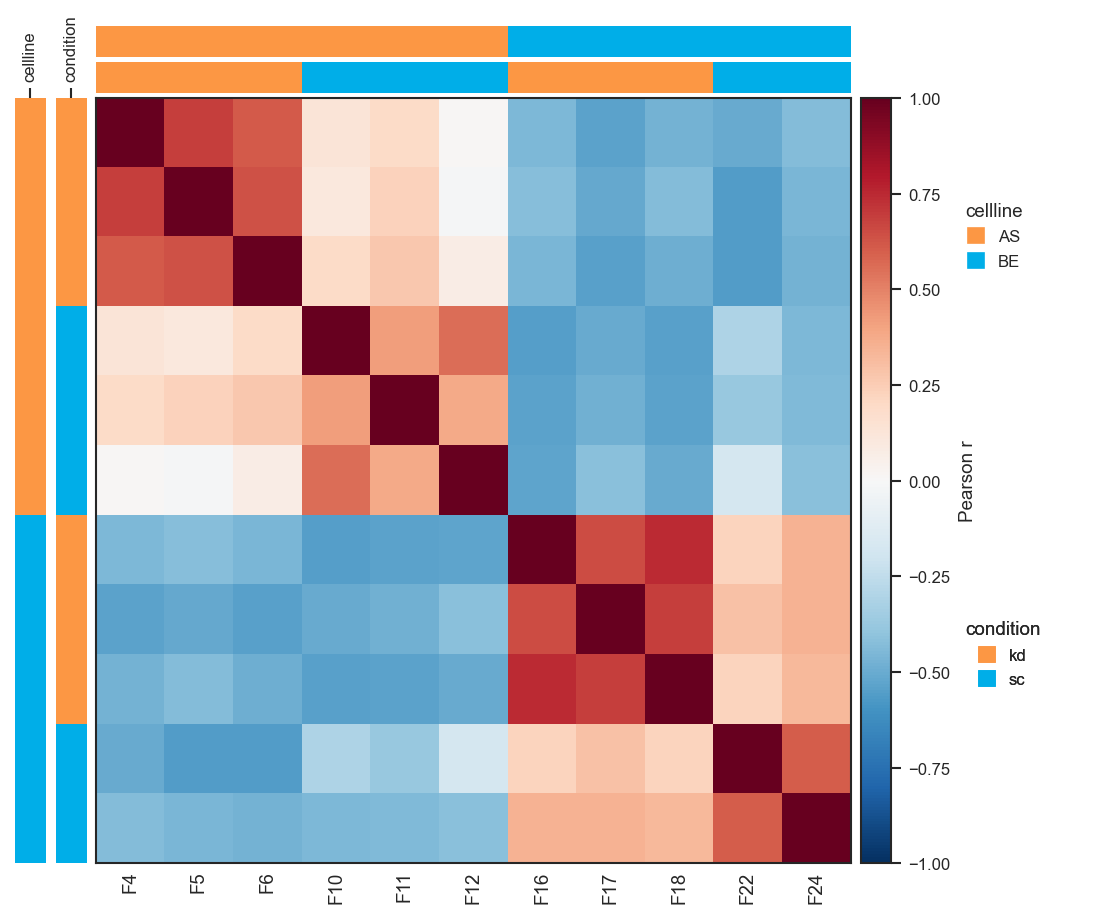
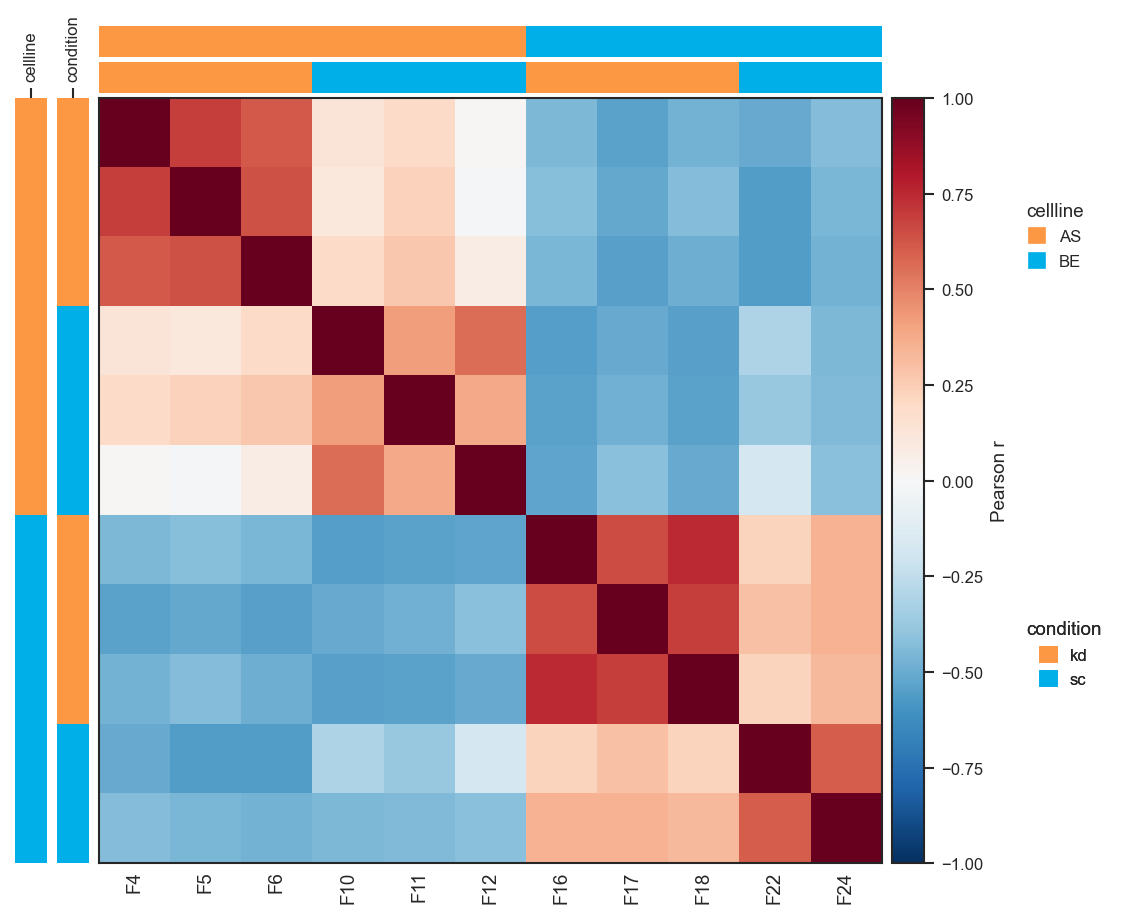
fix(plotting): fix pairwise correlation legend overlap and shift_legend

diff --git a/src/scpviz/plotting/clustering.py b/src/scpviz/plotting/clustering.py
@@ -72,7 +72,7 @@ def plot_pairwise_correlation(
     force: bool = False,
     subset_mask: np.ndarray | pd.Series | list | None = None,
     show_annotation_legend: bool = True,
-    legend_anchor_x: float = 0.3,
+    legend_anchor_x: float | None = None,
     show_ticklabels: bool | None = None,
     ticklabels_auto_max_samples: int = 20,
 ) -> "tuple[Figure, plt.Axes]":
@@ -135,9 +135,10 @@ def plot_pairwise_correlation(
             names also appear on the left vertical bar axes; top bars stay unlabeled).
         legend_anchor_x: Horizontal anchor for annotation legends inside the legend
             column, in axes coordinates (``0`` = left edge of that column, ``1`` = right).
-            Larger values shift legends to the **right**, away from the colorbar, which
-            helps if they overlap the colorbar. Typical values to try: about ``0.15`` to
-            ``0.45`` (default ``0.3``). Ignored when ``show_annotation_legend`` is False.
+            Larger values shift legends to the **right**. ``None`` (default) auto-sizes
+            the column from the legend text and clears the colorbar labels. Ignored when
+            ``show_annotation_legend`` is False. To move legends relative to the heatmap
+            afterwards, use :func:`shift_legend` on the returned axis.
         show_ticklabels: When ``show_samples=True``, controls sample names on the
             **x-axis** only (y-axis stays unlabeled to avoid clashing with annotation
             bars). ``None`` (default) shows ticks if ``n_samples <= ticklabels_auto_max_samples``
@@ -420,12 +421,22 @@ def plot_pairwise_correlation(
     else:
         _show_ticks = True
 
+    # Legend column width (inches) from the longest label/title, plus clearance
+    # for the colorbar tick labels + label so legends never overlap the colorbar.
+    legend_col_in = 0.0
+    if show_annotation_legend:
+        n_chars = max(
+            max(len(c) for c in classes_list),
+            max(len(v) for c in classes_list for v in adata.obs[c].astype(str).unique()),
+        )
+        cbar_pad_in = 0.8
+        legend_col_in = cbar_pad_in + 0.4 + n_chars * text_size * 0.6 / 72
+
     if figsize is None:
         side = max(5.0, n_groups * 0.55)
         ann_width = n_ann * 0.3
         cbar_width = 0.5
-        legend_width = 1.5 if show_annotation_legend else 0.0
-        fig_w = side + ann_width * 2 + cbar_width + legend_width
+        fig_w = side + ann_width * 2 + cbar_width + legend_col_in
         fig_h = side + ann_width * 2
         figsize = (fig_w, fig_h)
         print(
@@ -436,7 +447,8 @@ def plot_pairwise_correlation(
     fig = plt.figure(figsize=figsize)
     height_ratios = [0.04] * n_ann + [1.0]
     if show_annotation_legend:
-        legend_col_ratio = 0.25
+        heatmap_in = max(figsize[0] - legend_col_in - 0.4, 1.0)
+        legend_col_ratio = legend_col_in / heatmap_in
         width_ratios = [0.04] * n_ann + [1.0, 0.04, legend_col_ratio]
         ncols_gs = n_ann + 3
     else:
@@ -617,6 +629,7 @@ def plot_pairwise_correlation(
 
     if show_annotation_legend and ax_leg_col is not None:
         n_leg = len(classes_list)
+        anchor_x = legend_anchor_x if legend_anchor_x is not None else cbar_pad_in / legend_col_in
         for i, col in enumerate(classes_list):
             handles = [
                 mpatches.Patch(color=ann_color_dicts[i][v], label=v)
@@ -627,12 +640,14 @@ def plot_pairwise_correlation(
                 handles=handles,
                 title=col,
                 loc="center left",
-                bbox_to_anchor=(legend_anchor_x, y_frac),
+                bbox_to_anchor=(anchor_x, y_frac),
                 bbox_transform=ax_leg_col.transAxes,
                 borderaxespad=0.0,
                 fontsize=text_size - 1,
                 title_fontsize=text_size,
                 frameon=False,
+                handlelength=1.0,
+                handleheight=1.0,
             )
             ax_leg_col.add_artist(leg)
 

diff --git a/src/scpviz/plotting/style.py b/src/scpviz/plotting/style.py
@@ -215,11 +215,18 @@ def shift_legend(
                     scplt.shift_legend(ax, anchor_pos=(1.05, 1.0))
             ```
     """
-    legends = ax.get_figure().legends or []
-    # ax.get_legend() returns only the last; collect all via ax.artists
-
+    # ax.get_legend() returns only the last; collect all via ax children
     ax_legends = [a for a in ax.get_children()
                   if isinstance(a, plt.matplotlib.legend.Legend)]
+    if not ax_legends:
+        # Legends hosted on a sibling axis (e.g. plot_pairwise_correlation's
+        # legend column): move them, anchored in `ax` coordinates.
+        ax_legends = [a for other in ax.get_figure().axes if other is not ax
+                      for a in other.get_children()
+                      if isinstance(a, plt.matplotlib.legend.Legend)]
+
+    # The last ax.legend() is listed both as ax.legend_ and as an artist
+    ax_legends = list(dict.fromkeys(ax_legends))
 
     if not ax_legends:
         return
@@ -227,7 +234,7 @@ def shift_legend(
     if len(ax_legends) == 1:
         leg = ax_legends[0]
         leg.set_clip_on(False)
-        leg.set_bbox_to_anchor(anchor_pos)
+        leg.set_bbox_to_anchor(anchor_pos, transform=ax.transAxes)
         leg.set_loc(loc)
         return
 
@@ -242,7 +249,7 @@ def shift_legend(
         leg.set_clip_on(False)
         leg_height_px = leg.get_window_extent(renderer).height
         leg_height_ax = leg_height_px / ax_height_px
-        leg.set_bbox_to_anchor((x, y_cursor))
+        leg.set_bbox_to_anchor((x, y_cursor), transform=ax.transAxes)
         leg.set_loc("upper left")
         y_cursor -= leg_height_ax + 0.02
 
